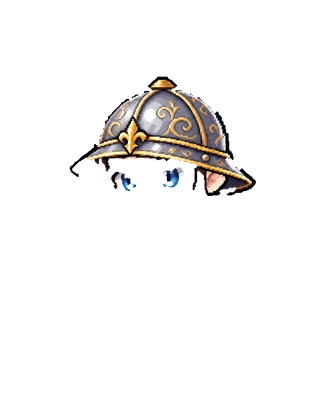
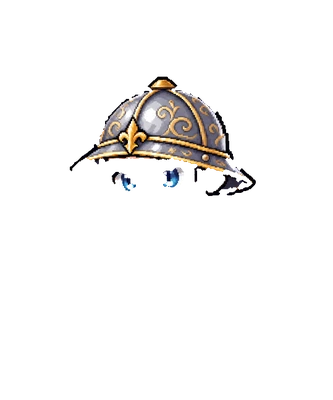
Quest: every armour, boots and helmet tier has its own drawing
From four merged ChatGPT images (11 tier sets). Every figure is found by its eyes,
gem pairs dropped as outliers in their row, cropped to its own box and lined up on
the doll. Armour keeps the doll's cape, sword and hand; the robe gets its own hem;
boots are everything below the knee. The neighbouring figure's sword only shows at
the hilt and tip, so only those zones are cleaned. Icons come from the finished layers.

Robe Uncommon stays on the Common drawing: the next figure's sword crosses it.

Claude-Session: https://claude.ai/code/session_01LbCAadJR4DWp6aBto5Sxjr

diff --git a/test/quest.test.js b/test/quest.test.js
@@ -266,15 +266,16 @@ test("hero look: hair shows under any helmet, class sets the outfit, armour and 
 });
 
 test("rarity picks its own drawing once it ships, never a tint", () => {
-  const it = { slot: "boots", shape: 1, r: 4 };
-  assert.strictEqual(Q.artKey("boots", it), "greaves");            // not shipped yet: Common drawing
-  Q.TIERED.add("boots:greaves:4");
+  const it = { slot: "armor", shape: 3, r: 1 };
+  assert.strictEqual(Q.artKey("armor", it), "robe");               // not shipped yet: Common drawing
+  Q.TIERED.add("armor:robe:1");
   try {
-    assert.strictEqual(Q.artKey("boots", it), "greaves-r4");
-    assert.ok(Q.iconOf(it).endsWith("b-greaves-r4.webp"));
-    assert.ok(Q.heroLayers({ boots: it }).some(l => l.src.endsWith("hero-boots-greaves-r4.webp")));
-    assert.strictEqual(Q.artKey("boots", { shape: 1, r: 0 }), "greaves");
-  } finally { Q.TIERED.delete("boots:greaves:4"); }
+    assert.strictEqual(Q.artKey("armor", it), "robe-r1");
+    assert.ok(Q.iconOf(it).endsWith("a-robe-r1.webp"));
+    assert.ok(Q.heroLayers({ armor: it }).some(l => l.src.endsWith("hero-body-robe-r1.webp")));
+    assert.ok(Q.heroLayers({ armor: it }).some(l => l.src.endsWith("hero-hem-robe-r1.webp")));
+    assert.strictEqual(Q.artKey("armor", { shape: 3, r: 0 }), "robe");
+  } finally { Q.TIERED.delete("armor:robe:1"); }
   // shipped weapons: every tier above Common has its own drawing
   const sw = r => Q.heroLayers({ weapon: { slot: "weapon", shape: 0, r } }).find(l => l.k === "w").src.split("/").pop();
   assert.deepStrictEqual([0, 1, 2, 3, 4].map(sw), ["hero-wpn-sword.webp", "hero-wpn-sword-r1.webp", "hero-wpn-sword-r2.webp", "hero-wpn-sword-r3.webp", "hero-wpn-sword-r4.webp"]);

diff --git a/js/quest.js b/js/quest.js
@@ -455,7 +455,10 @@ Rules: higher rarity means a grander name. No brand names, real people, or chara
      drawing until its art lands. Entries look like "weapon:sword:4". */
   const TIERED = new Set([
     ...["sword", "axe", "bow", "staff"].flatMap(w => [1, 2, 3, 4].map(r => `weapon:${w}:${r}`)),
-    ...["kettle"].flatMap(hm => [1, 2, 3, 4].map(r => `helm:${hm}:${r}`))
+    ...["kettle", "horned", "hood", "circlet"].flatMap(hm => [1, 2, 3, 4].map(r => `helm:${hm}:${r}`)),
+    ...["leather", "chain", "plate"].flatMap(a => [1, 2, 3, 4].map(r => `armor:${a}:${r}`)),
+    ...[2, 3, 4].map(r => `armor:robe:${r}`),                                   // robe Uncommon: redo pending
+    ...["leather", "greaves", "winged", "wraps"].flatMap(b => [1, 2, 3, 4].map(r => `boots:${b}:${r}`))
   ]);
   function artKey(slot, it) {
     const shape = SHAPES[slot][it.shape];

diff --git a/sw.js b/sw.js
@@ -1,10 +1,10 @@
 /* Setpoint service worker — makes the app work offline after the first visit.
    Bump VERSION whenever you change any file so phones pick up the update. */
-const VERSION = "setpoint-3.8.0";
+const VERSION = "setpoint-3.9.0";
 // Quest art lives in its own cache that survives app updates. Its name is a
 // fingerprint of assets/quest/ (node tools/art-hash.js); the tests fail if it's stale,
 // so changed art always reaches phones instead of the old copy being served.
-const ART = "setpoint-art-4480c75c";
+const ART = "setpoint-art-b5f145d3";
 const SHELL = [
   "./", "index.html", "manifest.webmanifest",
   "css/app.css", "js/engine.js", "js/foods.js", "js/charts.js", "js/exercises.js", "js/train.js", "js/quest.js", "js/sync.js", "js/app.js", "js/exlib-full.js",

diff --git a/tools/quest-doll.py b/tools/quest-doll.py
@@ -240,7 +240,7 @@ def helmet_from(t8, base8, key, masked):
     r_, g_, b_ = t[:, :, 0], t[:, :, 1], t[:, :, 2]
     mx = t[:, :, :3].max(2); mn = t[:, :, :3].min(2); sat = (mx - mn) / np.maximum(mx, 1)
     hue = np.degrees(np.arctan2(np.sqrt(3) * (g_ - b_), 2 * r_ - g_ - b_)) % 360
-    hair = (hue > 8) & (hue < 34) & (sat > 0.3) & (mx < 190)
+    hair = ((hue > 345) | (hue < 34)) & (sat > 0.3) & (mx < 200)     # brown or red locks
     skin = (r_ > 190) & (g_ > 140) & (b_ > 115) & (r_ - b_ > 25) & (r_ - b_ < 95) & (sat < 0.45)
     below = yy > EYE_Y - 40
     d &= ~(below & (hair | skin))
@@ -288,6 +288,138 @@ for hn in ["kettle", "horned", "hood", "circlet"]:
         helmet_from(D[r], D["base"], f"{hn}-{r}", hn in HELM_CUT)
         tile = T[r].copy(); tile[:, :, 3] = np.where(tile[:, :, 3] > 200, tile[:, :, 3], 0)
         HELM_ICONS[f"h-{hn}-{r}"] = tile
+
+# ---------- merged tier sheets (art/sets-*.png): ChatGPT packed several tier sets into one
+# image. Every figure is found by its eyes (a level pair of blue spots; gem pairs are
+# dropped as outliers in their row) and moved onto the doll by them.
+#   body sets: sets side by side; each = top row [reference, Uncommon, Rare],
+#              bottom row [Epic, Legendary]. The reference is the plain hero or the base item.
+#   head sets: sets stacked; same 3 + 2 layout per set, plain head first.
+TIER_ICONS = {}
+def eye_pairs(a, dmin, dmax):
+    ai = a.astype(int)
+    blue = (ai[:, :, 2] > ai[:, :, 0] + 50) & (ai[:, :, 2] > 130) & (ai[:, :, 3] > 200)
+    lab, k = nd.label(blue); sz = nd.sum(blue, lab, range(1, k + 1))
+    pts = [nd.center_of_mass(blue, lab, i + 1)[::-1] for i in range(k) if sz[i] >= 20]
+    pairs = sorted([(p, q) for p in pts for q in pts if dmin <= q[0] - p[0] <= dmax and abs(q[1] - p[1]) < 0.15 * (q[0] - p[0])],
+                   key=lambda pq: abs(pq[0][1] - pq[1][1]))
+    used, out = set(), []
+    for p, q in pairs:
+        if p in used or q in used: continue
+        used |= {p, q}; out.append((p, q))
+    return out
+def eye_rows(pairs, gap, tol=25):
+    rows = []
+    for pq in sorted(pairs, key=lambda pq: pq[0][1]):
+        if rows and abs(pq[0][1] - np.median([r[0][1] for r in rows[-1]])) < tol: rows[-1].append(pq)
+        else: rows.append([pq])
+    clean = []
+    for row in rows:
+        if len(row) < 2: continue
+        dmed = np.median([q[0] - p[0] for p, q in row]); ymed = np.median([p[1] for p, q in row])
+        keep = []
+        for pq in sorted(row, key=lambda pq: abs(pq[0][1] - ymed) + abs((pq[1][0] - pq[0][0]) - dmed)):
+            if all(abs(pq[0][0] - k[0][0]) > gap for k in keep): keep.append(pq)
+        clean.append(sorted(keep, key=lambda pq: pq[0][0]))
+    return clean
+def onto_doll(img, src_eyes, box=None):
+    if box is not None:      # (left, top, right, bottom) in eye-distances from the eyes' midpoint
+        (p, q) = src_eyes; mx, my = (p[0] + q[0]) / 2, (p[1] + q[1]) / 2; d = q[0] - p[0]
+        x0, y0, x1, y1 = [int(round(v)) for v in (mx - box[0] * d, my - box[1] * d, mx + box[2] * d, my + box[3] * d)]
+        img = img.copy(); keep = np.zeros(img.shape[:2], bool)
+        keep[max(0, y0):max(0, y1), max(0, x0):max(0, x1)] = True; img[~keep] = 0
+    (a1, a2), (b1, b2) = src_eyes, eyes_of(layers["face"])[1]
+    sv = np.subtract(a2, a1); dv = np.subtract(b2, b1)
+    sc = np.hypot(*dv) / np.hypot(*sv); ang = math.atan2(dv[1], dv[0]) - math.atan2(sv[1], sv[0])
+    cc, si = math.cos(ang) * sc, math.sin(ang) * sc
+    M = np.array([[cc, -si], [si, cc]]); tt = np.mean([b1, b2], 0) - M @ np.mean([a1, a2], 0)
+    Mi = np.linalg.inv(M); ti = -Mi @ tt
+    out = np.array(Image.fromarray(img).transform((N, N), Image.AFFINE, (Mi[0, 0], Mi[0, 1], ti[0], Mi[1, 0], Mi[1, 1], ti[1]), resample=Image.NEAREST))
+    out[:, :, 3] = np.where(out[:, :, 3] > 200, 255, 0)
+    return out
+def icon_crop(t, box):
+    x0, y0, x1, y1 = box; c = t[y0:y1, x0:x1].copy()
+    return c
+BODY_X1 = 650      # neighbouring figures start past here once lined up
+SET_FILES = {
+    "sets-armor-leather-chain-plate.png": ("body", [("armor", "leather"), ("armor", "chain"), ("armor", "plate")]),
+    "sets-robe-bootsleather-greaves.png": ("body", [("armor", "robe"), ("boots", "leather"), ("boots", "greaves")]),
+    "sets-boots-winged-wraps.png": ("body", [("boots", "winged"), ("boots", "wraps")]),
+    "sets-helm-horned-hood-circlet.png": ("head", [("helm", "horned"), ("helm", "hood"), ("helm", "circlet")]),
+}
+for fn, (kind, sets) in SET_FILES.items():
+    pth = f"{SP}/art/{fn}"
+    if not os.path.exists(pth): continue
+    sheet = np.array(Image.open(pth).convert("RGBA"))
+    if kind == "body":
+        rows = eye_rows(eye_pairs(sheet, 18, 62), gap=100)
+        rows = sorted(sorted(rows, key=len, reverse=True)[:2], key=lambda r: r[0][0][1])
+        top, bot = rows
+        assert len(top) == 3 * len(sets) and len(bot) == 2 * len(sets), (fn, len(top), len(bot))
+        groups = [dict(zip(["ref", "r1", "r2"], top[3 * g:3 * g + 3]), **dict(zip(["r3", "r4"], bot[2 * g:2 * g + 2]))) for g in range(len(sets))]
+    else:
+        rows = [r for r in eye_rows(eye_pairs(sheet, 40, 90), gap=150) if len(r) >= 2]
+        rows.sort(key=lambda r: r[0][0][1])
+        assert len(rows) == 2 * len(sets), (fn, [len(r) for r in rows])
+        groups = [dict(zip(["base", "r1", "r2"], rows[2 * g][:3]), **dict(zip(["r3", "r4"], rows[2 * g + 1][:2]))) for g in range(len(sets))]
+    def neighbour_sword_cut(t, own, row):
+        # the next figure's sword runs behind this one; only its hilt (right edge, low) and
+        # its tip (in the gap left of the legs) show. Clear blade-coloured pixels there only.
+        ti = t.astype(int); mxc = ti[:, :, :3].max(2); mnc = ti[:, :, :3].min(2)
+        steel = (t[:, :, 3] > 0) & ((mxc - mnc) < 40) & (mxc > 110)
+        gold = (t[:, :, 3] > 0) & (ti[:, :, 0] > 160) & (ti[:, :, 2] < 110) & (ti[:, :, 1] > 100)
+        zone = np.zeros((N, N), bool); zone[530:665, 280:330] = True; zone[540:665, 548:] = True
+        kill = zone & (steel | gold)
+        kill = nd.binary_dilation(kill, iterations=2) & zone & ~((ti[:, :, 0] > 120) & (ti[:, :, 1] < 70))   # keep red cloth
+        t = t.copy(); t[kill] = 0
+        return t
+    for (slot, shape), grp in zip(sets, groups):
+        if slot == "helm":
+            base = onto_doll(sheet, grp["base"], (2.3, 2.8, 2.3, 1.7))
+            for r in ["r1", "r2", "r3", "r4"]:
+                t = onto_doll(sheet, grp[r], (2.3, 2.8, 2.3, 1.7))
+                t[NECK + 14:] = 0; t[:, BODY_X1:] = 0
+                b2 = base.copy(); b2[NECK + 14:] = 0
+                helmet_from(t, b2, f"{shape}-{r}", shape in HELM_CUT)
+                ic = t[60:NECK + 14, 150:BODY_X1].copy(); m_ = ic[:, :, 3] > 0
+                lab_, k_ = nd.label(m_); ic[lab_ != (np.argmax(nd.sum(m_, lab_, range(1, k_ + 1))) + 1)] = 0   # just this head
+                TIER_ICONS[f"h-{shape}-{r}"] = ic
+            continue
+        for r in ["r1", "r2", "r3", "r4"]:
+            t = onto_doll(sheet, grp[r], (4.8, 2.4, 3.4, 7.2)); t[:, BODY_X1:] = 0
+            t = neighbour_sword_cut(t, grp[r], top if r in ("r1", "r2") else bot)
+            t[:495, :270] = 0                                   # the previous figure's cape
+            t[~blobs(t[:, :, 3] > 0, 3000)] = 0
+            if slot == "armor":
+                robe = shape == "robe"
+                b = t.copy(); b[:NECK] = 0; b[KNEE:] = 0
+                b[495:640, :280] = 0                             # its own sword: the doll draws one
+                b[563:640, :318] = 0                             # and the guard under the glove
+                if not robe:
+                    b[CAPE_Y0:CAPE_Y1, CAPE_X:] = 0               # the cape is its own layer
+                    b[CAPE_Y1:KNEE, 560:] = 0                     # and the strip under it
+                    b[588:KNEE, 495:] = 0                         # their right thigh sits a little wider than ours
+                b[~blobs(b[:, :, 3] > 0, 150)] = 0
+                layers[f"body-{shape}-{r}"] = b
+                if robe:      # the robe's hem hangs over the boots
+                    hm = diff(t, layers["boots"]); hm[:KNEE] = False; hm[665:] = False; hm[:, :300] = False
+                    hm = blobs(hm, 60)
+                    h2 = np.zeros_like(t); h2[hm] = t[hm]; layers[f"hem-robe-{r}"] = h2
+                ic = b.copy()
+                if not robe:
+                    cm = layers["cape"][:, :, 3] > 0; ic[cm & (ic[:, :, 3] == 0)] = layers["cape"][cm & (ic[:, :, 3] == 0)]
+                else:
+                    hk = layers[f"hem-robe-{r}"][:, :, 3] > 0; ic[hk] = layers[f"hem-robe-{r}"][hk]
+                TIER_ICONS[f"a-{shape}-{r}"] = ic[NECK - 20:KNEE + 70, 300:BODY_X1]
+            else:
+                b = np.zeros_like(t); b[KNEE:] = t[KNEE:]; b[KNEE:, :315] = 0
+                b[~blobs(b[:, :, 3] > 0, 400)] = 0
+                ys = np.nonzero(b[:, :, 3].max(1) > 0)[0]
+                if len(ys) and ys.max() > 703:                   # taller boots: squash to fit the box
+                    part = Image.fromarray(b[KNEE:ys.max() + 1]).resize((N, 703 - KNEE + 1), Image.NEAREST)
+                    b = np.zeros_like(b); b[KNEE:704] = np.array(part)
+                layers[f"boots-{shape}-{r}"] = b
+                TIER_ICONS[f"b-{shape}-{r}"] = b[KNEE - 10:N, 300:BODY_X1]
 
 # ---------- weapons from the icon sheet, put in the hand
 wsheet = load("eq-weapon")
@@ -410,12 +542,12 @@ for n, l in layers.items():
     Image.fromarray(l).crop(BOX).resize((tw, th), Image.BOX if n.startswith("blink") else Image.LANCZOS).save(f"{OUT}/hero-{n}.webp", "WEBP", quality=92, method=6)
 print(len(layers), "layers", tw, th)
 # inventory icons for tier items: trimmed, square, 128px like the batch-1 icons
-for k, c in list(ICONS.items()) + list(HELM_ICONS.items()):
+for k, c in list(ICONS.items()) + list(HELM_ICONS.items()) + list(TIER_ICONS.items()):
     ys, xs = np.nonzero(c[:, :, 3] > 20); c = c[ys.min():ys.max() + 1, xs.min():xs.max() + 1]
     side = int(max(c.shape[:2]) * 1.08); sq = np.zeros((side, side, 4), np.uint8)
     oy, ox = (side - c.shape[0]) // 2, (side - c.shape[1]) // 2; sq[oy:oy + c.shape[0], ox:ox + c.shape[1]] = c
     Image.fromarray(sq).resize((128, 128), Image.LANCZOS).save(f"{OUT}/{k}.webp", "WEBP", quality=90, method=6)
-print(len(ICONS) + len(HELM_ICONS), "tier icons")
+print(len(ICONS) + len(HELM_ICONS) + len(TIER_ICONS), "tier icons")
 
 # ---------- previews
 def stack(names):

diff --git a/art/ART_SPEC_3.md b/art/ART_SPEC_3.md
@@ -160,7 +160,7 @@ The prompt is in the "everything left" block below.
 
 ---
 
-## Everything left in one ChatGPT request
+## Everything left in one ChatGPT request. Done (4 merged images, `sets-*.png`), except robe Uncommon
 
 See the chat reply from 2 Oct 2026; the same text is kept in `art/PROMPT_ALL_LEFT.md`.
 
